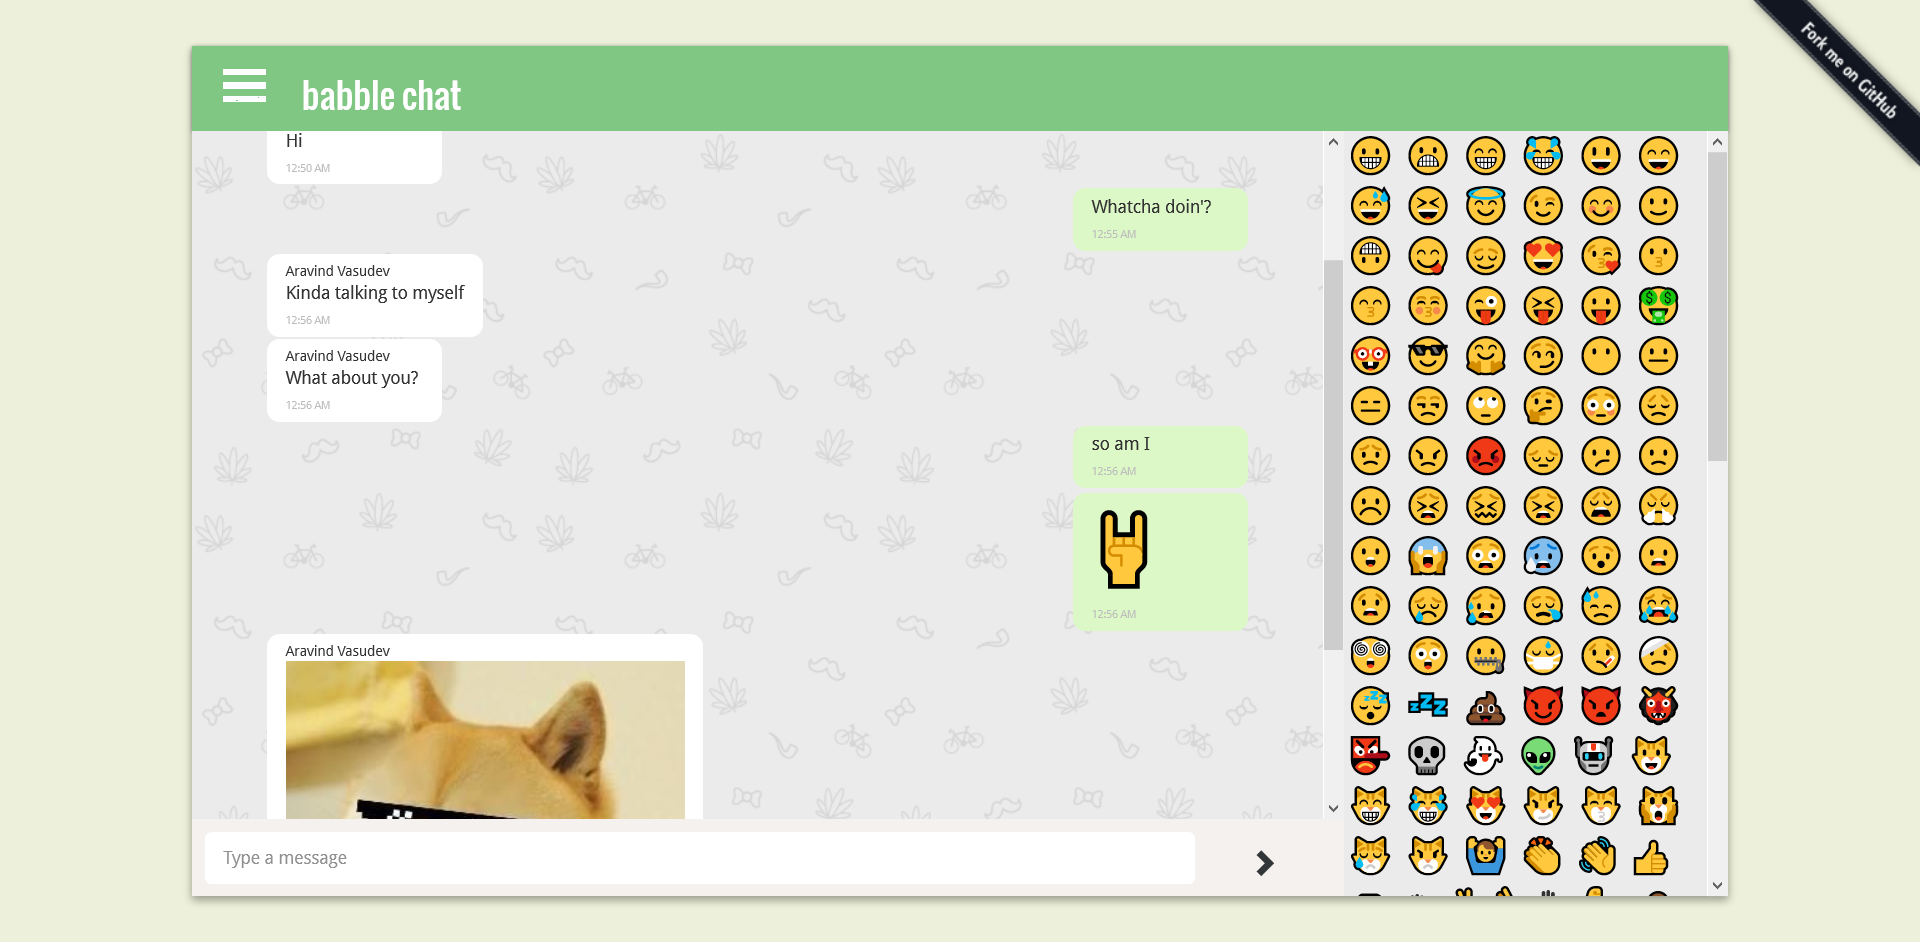
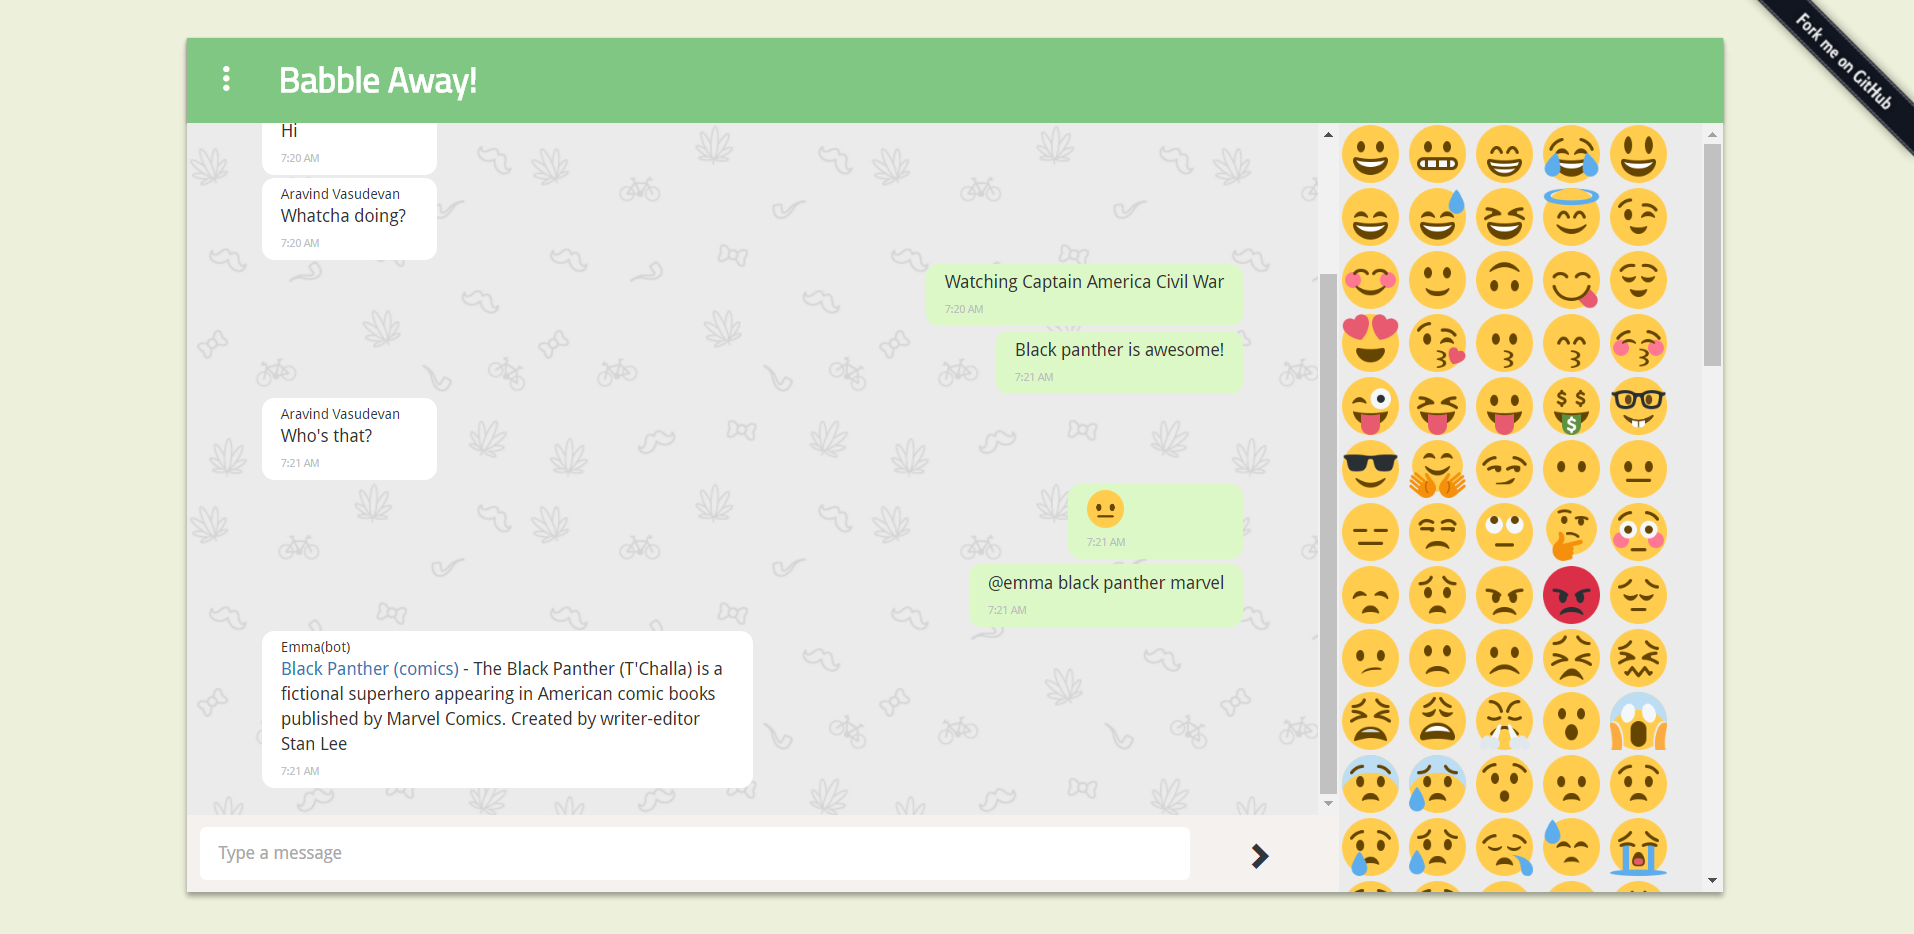
Updated Readme

diff --git a/README.md b/README.md
@@ -17,6 +17,7 @@ Check it out: [babble.gq](http://babble.gq/)
 ## Features<a name="features"></a>
   * Responsive Interface
   * Web Sockets for Communication using Socket.io
+  * Emma - A simple bot that returns wikipedia result when invoked with `@emma`.
   * Secure OAuth Authetication with Facebook using Passport
   * Emoji Column for easy inclusive of emojis (right click triggers larger emoji)
   * Image Upload Functionality
